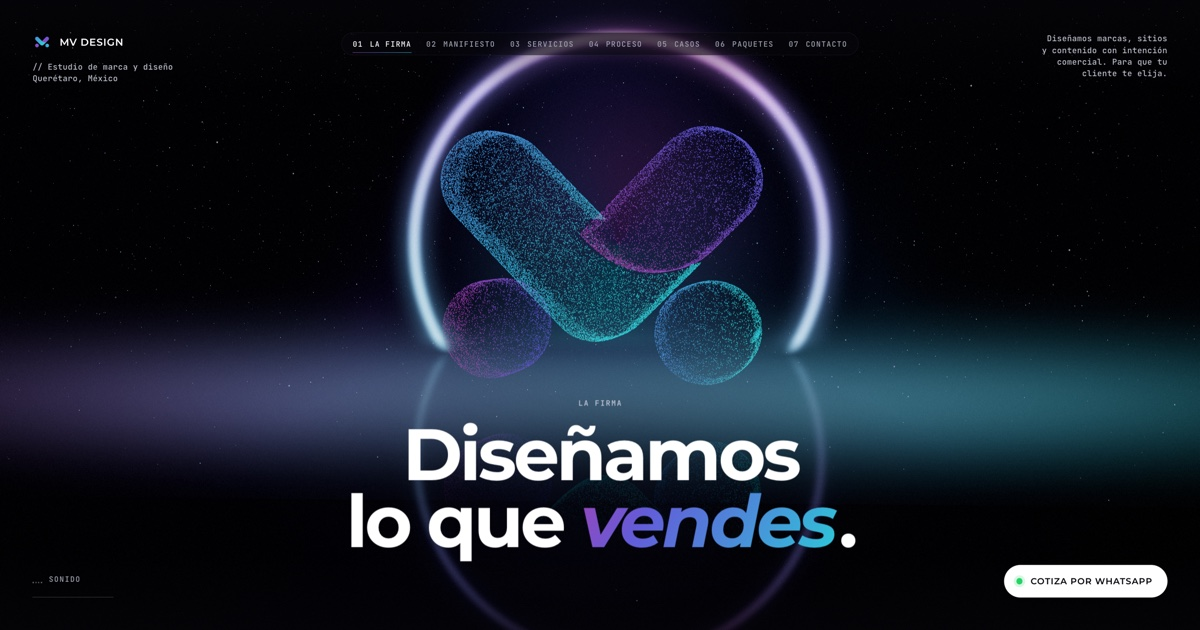
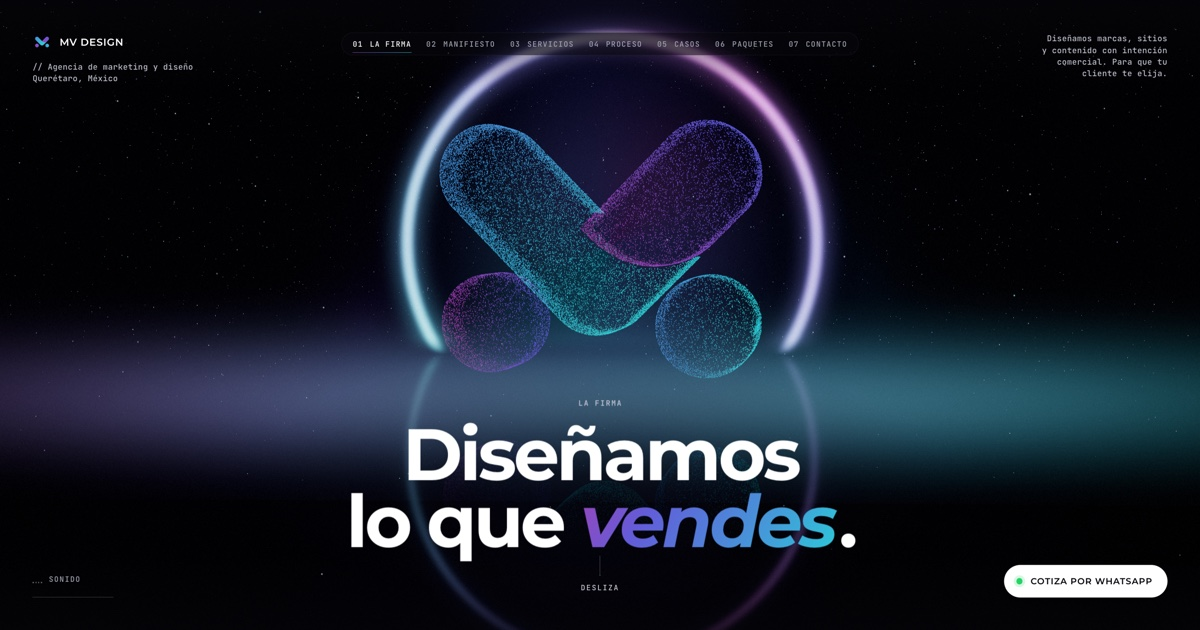
Revisión de la migración: medición, SEO local, Contacto en pantallas bajas
- Pixel: sin PageView por cada cambio de escena (disablePushState)
- ?debug / ?qa / ?notrack sin valor ya no miden en producción
- scene_view sólo en la escena donde aterrizas; WhatsApp de casos con su nombre (caso-...)
- Etiqueta del flotante igual que la home anterior ([web · botón flotante])
- Texto visible con 'Agencia de marketing y diseño' y Querétaro; servicios como h3
- Espacio antes de <br> (texto plano sin palabras pegadas); llms.txt con enlaces
- three.js en paralelo (preconnect + modulepreload); /lab/ sin noindex
- Contacto: la cámara mide el aire y centra la M sobre el bloque; se aprieta en pantallas bajas
- Íconos de redes sin robo de toques por los legales; versión sin 3D legible
- Imagen para compartir con el texto nuevo

diff --git a/lab/lab.js b/lab/lab.js
@@ -386,6 +386,8 @@ async function buildM() {
   const size = new THREE.Vector3(), center = new THREE.Vector3();
   box.getSize(size); box.getCenter(center);
   const s = 2.7 / size.x;                           // ~2.7 m de ancho, centrada en su pivote
+  const mHalfWas = M_HALF;
+  M_HALF = size.y * s / 2;                          // (contacto: cuánto aire necesita la M sobre el texto)
   const holder = new THREE.Object3D();
   holder.scale.set(s, -s, s);                       // el SVG tiene la Y hacia abajo
   holder.position.set(-center.x * s, center.y * s, -center.z * s);
@@ -400,7 +402,7 @@ async function buildM() {
   particles.reflection.renderOrder = -2;            // debajo del piso: el piso la vela
   scene.add(particles.points);
   scene.add(particles.reflection);                  // la reflexión se voltea en su propio shader
-  anchorUI();
+  if (Math.abs(M_HALF - mHalfWas) > 0.01) buildPath(); else anchorUI();
   geos.forEach((g) => g.dispose());
   try {   // precompila todo (fichas incluidas) contra el búfer del composer
     cards.forEach((m) => { m.visible = true; });
@@ -445,6 +447,7 @@ const SPI = { R: 3, drop: 2, cardW: 2.3, yTop: AXIS_Y, yM: AXIS_Y - 12.5, camD: 
 // giro de la espiral: llega girando desde servicios, cada estación gira 60° y sigue girando hacia el cierre
 const spinAt = (q) => (q < Q0 ? (Q0 - q) * 1.4 : -(q - Q0) * SPI.stepA);
 const pad2 = (n) => String(n).padStart(2, "0");
+const slugify = (t) => t.toLowerCase().normalize("NFD").replace(/[\u0300-\u036f]/g, "").replace(/[^a-z0-9]+/g, "-").replace(/^-|-$/g, "");
 
 const cardGeo = new THREE.PlaneGeometry(1, 1);
 const cards = RUBROS.map((r, i) => {
@@ -834,7 +837,7 @@ function openDetail(k, tile) {
   const ctas = mk("div", "det__ctas");
   const wa = mk("a", "pill pill--light", "Quiero algo así →");
   wa.href = WA_URL + encodeURIComponent(`Hola MV Design, vi el caso de ${pr.name} y quiero cotizar algo así. [web · caso]`);
-  wa.dataset.cta = "caso";                              // (medición: WhatsApp = Lead con su ubicación)
+  wa.dataset.cta = "caso-" + slugify(pr.name);          // (medición: WhatsApp = Lead con su ubicación: qué caso convierte)
   wa.target = "_blank"; wa.rel = "noopener";
   ctas.append(wa);
   if (pr.url) { const a = mk("a", "pill pill--ghost", "Ver sitio ↗"); a.href = pr.url; a.target = "_blank"; a.rel = "noopener"; ctas.append(a); }
@@ -982,7 +985,7 @@ const TEXT_PORT = [{ d: 14, oy: 0.17 }, { oy: 0 }, { oy: 0 }, { d: 12, oy: 0 }, 
 const RING_FILL = { land: 0.84, port: 0.96 };
 const mLook = new THREE.Matrix4(), qTmp = new THREE.Quaternion();
 // escala de la M y ventana lejana de los anillos: dependen del encuadre (buildPath)
-let mScale = M_S, FAR_SUN = 20, FAR_TUN = 20, mouseRef = 12;
+let mScale = M_S, FAR_SUN = 20, FAR_TUN = 20, mouseRef = 12, M_HALF = 1.05;   // (M_HALF: media altura de la M a escala 1)
 let procTight = false;                                   // celular: el proceso no cabe junto al WhatsApp flotante
 function buildPath() {
   const E = END_Z;
@@ -1057,10 +1060,6 @@ function buildPath() {
   KEYS.pos.push(V(0, yK, PK_Z + T[SC.pk].d)); KEYS.look.push(V(0, yK, PK_Z)); FOCUS.push(T[SC.pk].d);
   if (portrait) { KEYS.pos.push(V(0, yM + 0.6, E + 20.5)); KEYS.look.push(V(0, yM - 1.55 - (H < 760 ? 1.2 : 0.3), E)); FOCUS.push(20.5); }   // (la M sube: el pie de contacto no la toca)
   else { KEYS.pos.push(V(0, yM + 0.4, E + 16.5)); KEYS.look.push(V(0, yM - 0.95, E)); FOCUS.push(16.5); }
-  posCurve = new THREE.CatmullRomCurve3(KEYS.pos, false, "centripetal");
-  lookCurve = new THREE.CatmullRomCurve3(KEYS.look, false, "centripetal");
-  posA = new THREE.CatmullRomCurve3([...KEYS.pos.slice(0, 3), KEYS.pos[Q0]], false, "centripetal");
-  lookA = new THREE.CatmullRomCurve3([...KEYS.look.slice(0, 3), KEYS.look[Q0]], false, "centripetal");
   // cada texto queda de frente a la cámara de su escena, a 1:1 (nítido) cuando llegas.
   // Manifiesto y servicios viven en el plano de su anillo y su tipografía se mide con él (--ring):
   // el texto queda dentro del círculo con cualquier zoom del navegador y en cualquier pantalla.
@@ -1069,7 +1068,9 @@ function buildPath() {
   sections[SC.proc].classList.toggle("is-compact", portrait);
   sections[SC.pk].classList.toggle("is-compact", portrait || H < 620);
   procTight = false;
-  labels.forEach((o, i) => {
+  const elC = sections[LAST], root = document.documentElement;
+  elC.classList.remove("is-tight", "is-bare"); root.classList.remove("contact-bare");
+  const place = (o, i) => {
     const ring = RING_AT[i];
     let ringD = 0;
     const d = ring ? ring[1] : T[i].d, oy = T[i].oy;
@@ -1102,7 +1103,35 @@ function buildPath() {
     o.quaternion.copy(qTmp);
     o.scale.setScalar(s * fit);
     o.userData.d = d;
-  });
+    return cy - half;                                // (arriba del bloque, en px)
+  };
+  labels.forEach(place);
+  // contacto: la M del cierre vive en el aire entre el HUD y el bloque de texto (que va abajo). Si no le alcanza,
+  // el bloque se aprieta (y en pantallas muy bajas suelta el kicker y la nota), la cámara se aleja lo justo
+  // y se inclina para centrarla en ese hueco; donde ya cabe, el encuadre no cambia
+  const kC = QLAST, GAP = 18, mH = M_HALF * mScale, D0 = KEYS.pos[kC].z - E;
+  const shot = (ly, y) => { probe.position.copy(KEYS.pos[kC]); probe.lookAt(0, ly, E); probe.updateMatrixWorld(); pv.set(0, y, E).project(probe); return (1 - pv.y) / 2 * H; };
+  const mPx = (D) => (mH * H) / (D * tanH);          // alto de la M en pantalla a distancia D
+  let minTop = (narrow ? 112 : 96) + SAFE_T, topC = place(labels[LAST], LAST);
+  if (topC - GAP - minTop < mPx(D0)) { elC.classList.add("is-tight"); topC = place(labels[LAST], LAST); }
+  if (topC - GAP - minTop < mPx(D0) * 0.8) {
+    elC.classList.add("is-bare"); root.classList.add("contact-bare");
+    minTop = (narrow ? 72 : 92) + SAFE_T; topC = place(labels[LAST], LAST);
+  }
+  const band = topC - GAP - minTop, ly0 = KEYS.look[kC].y;
+  if (band > 70 && (shot(ly0, yM - mH) > topC - GAP || shot(ly0, yM + mH) < minTop)) {
+    const D = clamp(D0 * mPx(D0) / (band * 0.94), D0, D0 * 1.6);
+    KEYS.pos[kC].z = E + D; FOCUS[kC] = D;
+    const want = minTop + band / 2;                  // (más arriba la mirada, más abajo la M en pantalla)
+    let lo = yM - 10, hi = yM + 10;
+    for (let n = 0; n < 32; n++) { const mid = (lo + hi) / 2; if (shot(mid, yM) < want) lo = mid; else hi = mid; }
+    KEYS.look[kC].y = (lo + hi) / 2;
+    place(labels[LAST], LAST);                       // el texto sigue a su cámara: mismo lugar en pantalla
+  }
+  posCurve = new THREE.CatmullRomCurve3(KEYS.pos, false, "centripetal");
+  lookCurve = new THREE.CatmullRomCurve3(KEYS.look, false, "centripetal");
+  posA = new THREE.CatmullRomCurve3([...KEYS.pos.slice(0, 3), KEYS.pos[Q0]], false, "centripetal");
+  lookA = new THREE.CatmullRomCurve3([...KEYS.look.slice(0, 3), KEYS.look[Q0]], false, "centripetal");
   anchorUI();
 }
 
@@ -1429,13 +1458,13 @@ mailBtn?.addEventListener("click", () => {
 });
 const progEl = document.querySelector("[data-prog]");
 const NOTES = [
-  "Diseñamos marcas, sitios<br>y contenido con intención<br>comercial. Para que tu<br>cliente te elija.",
-  "Antes del diseño,<br>la decisión.",
-  "Estrategia, diseño, contenido<br>y pauta en un solo equipo.",
-  "Primero entendemos tu negocio.<br>Después diseñamos.",
-  "Trabajo real de branding,<br>diseño web y contenido.<br>Desde Querétaro para todo México.",
-  "El mensaje de WhatsApp<br>ya lleva el paquete elegido.",
-  "Respondemos el mismo día<br>por WhatsApp."
+  "Diseñamos marcas, sitios <br>y contenido con intención <br>comercial. Para que tu <br>cliente te elija.",
+  "Antes del diseño, <br>la decisión.",
+  "Estrategia, diseño, contenido <br>y pauta en un solo equipo.",
+  "Primero entendemos tu negocio. <br>Después diseñamos.",
+  "Trabajo real de branding, <br>diseño web y contenido. <br>Desde Querétaro para todo México.",
+  "El mensaje de WhatsApp <br>ya lleva el paquete elegido.",
+  "Respondemos el mismo día <br>por WhatsApp."
 ];
 let active = -1;
 const sceneSeen = new Set();
@@ -1525,8 +1554,8 @@ function setActive(a) {
   if (active === 0 && a > 0) { document.documentElement.classList.add("hint-done"); try { sessionStorage.setItem("mv-hint", "1"); } catch (e) {} }
   active = a;
   document.body.dataset.scene = SLUGS[a];
-  // medición: qué escenas se ven (una vez por visita; gtag sólo envía en el dominio real)
-  if (!sceneSeen.has(a) && typeof window.gtag === "function") { sceneSeen.add(a); window.gtag("event", "scene_view", { scene: SLUGS[a] }); }
+  // medición: qué escenas se ven (una vez por visita, sólo donde aterrizas: no las que la cámara cruza; gtag sólo envía en el dominio real)
+  if (!sceneSeen.has(a) && a === Math.round(sceneP(to)) && typeof window.gtag === "function") { sceneSeen.add(a); window.gtag("event", "scene_view", { scene: SLUGS[a] }); }
   waSync();
   if (a !== SC.casos && rp.open >= 0) closeRubro(true, "nav");
   if (a !== SC.pk && pk.open >= 0) closePk("nav");
@@ -1534,7 +1563,7 @@ function setActive(a) {
   if (idxNum) idxNum.textContent = pad2(a + 1);
   if (idxName) idxName.textContent = NAMES[a];
   if (noteEl) noteEl.innerHTML = NOTES[a];
-  if (noteM) noteM.textContent = NOTES[a].replace(/<br>/g, " ");
+  if (noteM) noteM.textContent = NOTES[a].replace(/ ?<br>/g, " ");
   snd.scene(a);                                          // la armonía se desliza al acorde de la escena
 }
 

diff --git a/index.html b/index.html
@@ -46,7 +46,7 @@
 
   <link rel="preload" href="assets/fonts/montserrat-latin.woff2" as="font" type="font/woff2" crossorigin />
   <link rel="preload" href="assets/fonts/jetbrains-mono-latin.woff2" as="font" type="font/woff2" crossorigin />
-  <link rel="stylesheet" href="lab/lab.css?v=36" />
+  <link rel="stylesheet" href="lab/lab.css?v=37" />
   <noscript><style>.curtain { display: none; }</style></noscript>
   <script type="importmap">
   {
@@ -56,6 +56,21 @@
     }
   }
   </script>
+  <!-- three.js y sus módulos en paralelo desde el inicio (sin esto llegan en cascada de 3–4 niveles y el telón tarda) -->
+  <link rel="preconnect" href="https://cdn.jsdelivr.net" crossorigin />
+  <link rel="modulepreload" href="https://cdn.jsdelivr.net/npm/three@0.170.0/build/three.module.js" />
+  <link rel="modulepreload" href="https://cdn.jsdelivr.net/npm/three@0.170.0/examples/jsm/renderers/CSS3DRenderer.js" />
+  <link rel="modulepreload" href="https://cdn.jsdelivr.net/npm/three@0.170.0/examples/jsm/loaders/SVGLoader.js" />
+  <link rel="modulepreload" href="https://cdn.jsdelivr.net/npm/three@0.170.0/examples/jsm/postprocessing/EffectComposer.js" />
+  <link rel="modulepreload" href="https://cdn.jsdelivr.net/npm/three@0.170.0/examples/jsm/postprocessing/RenderPass.js" />
+  <link rel="modulepreload" href="https://cdn.jsdelivr.net/npm/three@0.170.0/examples/jsm/postprocessing/UnrealBloomPass.js" />
+  <link rel="modulepreload" href="https://cdn.jsdelivr.net/npm/three@0.170.0/examples/jsm/postprocessing/ShaderPass.js" />
+  <link rel="modulepreload" href="https://cdn.jsdelivr.net/npm/three@0.170.0/examples/jsm/postprocessing/Pass.js" />
+  <link rel="modulepreload" href="https://cdn.jsdelivr.net/npm/three@0.170.0/examples/jsm/postprocessing/MaskPass.js" />
+  <link rel="modulepreload" href="https://cdn.jsdelivr.net/npm/three@0.170.0/examples/jsm/shaders/CopyShader.js" />
+  <link rel="modulepreload" href="https://cdn.jsdelivr.net/npm/three@0.170.0/examples/jsm/shaders/LuminosityHighPassShader.js" />
+  <link rel="modulepreload" href="https://cdn.jsdelivr.net/npm/three@0.170.0/examples/jsm/misc/GPUComputationRenderer.js" />
+  <link rel="modulepreload" href="https://cdn.jsdelivr.net/npm/three@0.170.0/examples/jsm/math/MeshSurfaceSampler.js" />
 
   <script type="application/ld+json">
   {
@@ -106,9 +121,9 @@
   }
   </script>
 
-  <!-- Analítica solo en producción real: nunca en pruebas (?qa=, ?debug=, ?notrack=) ni
+  <!-- Analítica solo en producción real: nunca en pruebas (?qa, ?debug, ?notrack) ni
        en previews, para no ensuciar los datos con los que Meta optimiza los anuncios -->
-  <script>window.MV_TRACK = location.hostname === "www.mvdesign.mx" && !/[?&](qa|debug|notrack)=/.test(location.search);</script>
+  <script>window.MV_TRACK = location.hostname === "www.mvdesign.mx" && !/[?&](qa|debug|notrack)(=|&|$)/.test(location.search);</script>
 
   <!-- Google tag (gtag.js) · GA4 -->
   <script async src="https://www.googletagmanager.com/gtag/js?id=G-DTBRCV9C94"></script>
@@ -130,7 +145,8 @@
   t.src=v;s=b.getElementsByTagName(e)[0];
   s.parentNode.insertBefore(t,s)}(window, document,'script',
   'https://connect.facebook.net/en_US/fbevents.js');
-  if (window.MV_TRACK) { fbq('init', '1494974869057200'); fbq('track', 'PageView'); }
+  // disablePushState: la experiencia cambia el #escena con history; sin esto el Pixel manda un PageView por escena
+  if (window.MV_TRACK) { fbq.disablePushState = true; fbq('init', '1494974869057200'); fbq('track', 'PageView'); }
   </script>
   <noscript><img height="1" width="1" style="display:none"
   src="https://www.facebook.com/tr?id=1494974869057200&ev=PageView&noscript=1"
@@ -146,12 +162,12 @@
       <img src="assets/logos/mv-design-mark-color.svg" alt="" width="28" height="28" />
       <span>MV DESIGN</span>
     </a>
-    <p class="mono hud-sub">// Estudio de marca y diseño<br />Querétaro, México</p>
+    <p class="mono hud-sub">// Agencia de marketing y diseño <br />Querétaro, México</p>
     <p class="mono hud-note-m" data-note-m></p>
   </header>
 
   <aside class="hud hud--tr">
-    <p class="mono manifesto" data-note>Diseñamos marcas, sitios<br />y contenido con intención<br />comercial. Para que tu<br />cliente te elija.</p>
+    <p class="mono manifesto" data-note>Diseñamos marcas, sitios <br />y contenido con intención <br />comercial. Para que tu <br />cliente te elija.</p>
   </aside>
 
   <nav class="hud idx" aria-label="Escenas" data-idx>
@@ -176,7 +192,7 @@
   <main class="stage">
     <section class="scene scene--hero" data-scene="inicio" aria-label="La firma">
       <p class="kicker mono">La firma</p>
-      <h1 class="title" tabindex="-1">Diseñamos<br />lo que <em class="grad">vendes</em>.</h1>
+      <h1 class="title" tabindex="-1">Diseñamos <br />lo que <em class="grad">vendes</em>.</h1>
     </section>
 
     <section class="scene scene--ring" data-scene="manifiesto" aria-label="Manifiesto">
@@ -193,12 +209,12 @@
       <p class="kicker mono">Servicios</p>
       <h2 class="title title--2" tabindex="-1">Toda la cadena creativa, <em class="grad">sin intermediarios</em>.</h2>
       <ol class="svc-grid">
-        <li><span>01</span> <b>Branding estratégico</b> <i>Naming · Identidad · Brandbook</i></li>
-        <li><span>02</span> <b>Redes sociales</b> <i>Contenido · Comunidad · Pauta</i></li>
-        <li><span>03</span> <b>Web, apps y automatizaciones</b> <i>Editorial · E&#8209;commerce · 3D inmersiva</i></li>
-        <li><span>04</span> <b>Producción audiovisual</b> <i>Foto · Video · Campañas</i></li>
-        <li><span>05</span> <b>Gráfica y editorial</b> <i>Catálogos · Papelería · Señalética</i></li>
-        <li><span>06</span> <b>Medios y performance</b> <i>Google Ads · Meta Ads · SEO</i></li>
+        <li><span>01</span> <h3 class="svc__n">Branding estratégico</h3> <i>Naming · Identidad · Brandbook</i></li>
+        <li><span>02</span> <h3 class="svc__n">Redes sociales</h3> <i>Contenido · Comunidad · Pauta</i></li>
+        <li><span>03</span> <h3 class="svc__n">Web, apps y automatizaciones</h3> <i>Diseño web · E&#8209;commerce · 3D inmersiva</i></li>
+        <li><span>04</span> <h3 class="svc__n">Producción audiovisual</h3> <i>Foto · Video · Campañas</i></li>
+        <li><span>05</span> <h3 class="svc__n">Gráfica y editorial</h3> <i>Catálogos · Papelería · Señalética</i></li>
+        <li><span>06</span> <h3 class="svc__n">Marketing y performance</h3> <i>Google Ads · Meta Ads · SEO</i></li>
       </ol>
     </section>
 
@@ -336,7 +352,7 @@
     </section>
 
     <section class="scene scene--contact" data-scene="contacto" aria-label="Contacto">
-      <p class="kicker mono">Contacto</p>
+      <p class="kicker mono">Contacto · Querétaro, México</p>
       <h2 class="title title--2" tabindex="-1">Hagamos que tu marca <em class="grad">venda</em>.</h2>
       <div class="ctas">
         <a class="pill pill--light pill--two" href="https://wa.me/5214427146255?text=Hola%20Fernanda%2C%20quiero%20cotizar%20un%20proyecto%20con%20MV%20Design.%20%5Bweb%20%C2%B7%20contacto%5D" target="_blank" rel="noopener" data-cta="contacto-fer">
@@ -373,7 +389,7 @@
     <div class="progress" aria-hidden="true"><span data-prog></span></div>
   </footer>
 
-  <a class="wa" href="https://wa.me/5214427146255?text=Hola%20MV%20Design%2C%20quiero%20cotizar%20un%20proyecto.%20%5Bweb%20%C2%B7%20flotante%5D" target="_blank" rel="noopener" data-cta="flotante">
+  <a class="wa" href="https://wa.me/5214427146255?text=Hola%20MV%20Design%2C%20quiero%20cotizar%20un%20proyecto.%20%5Bweb%20%C2%B7%20bot%C3%B3n%20flotante%5D" target="_blank" rel="noopener" data-cta="flotante">
     <span class="wa__dot" aria-hidden="true"></span>Cotiza por WhatsApp
   </a>
 
@@ -397,7 +413,7 @@
       setTimeout(function () { if (!document.documentElement.classList.contains("is-3d")) off(); }, 4000);
     })();
   </script>
-  <script type="module" src="lab/lab.js?v=91"></script>
+  <script type="module" src="lab/lab.js?v=92"></script>
   <!-- Conversiones: WhatsApp = Lead (principal) · correo = Contact. Envia a Meta Pixel Y a GA4 -->
   <script>
   (function () {

diff --git a/lab/lab.css b/lab/lab.css
@@ -87,7 +87,7 @@ html.is-3d .scene--hero .title { font-size: max(clamp(40px, 6.4vw, 108px), min(c
 .svc-grid { display: grid; grid-template-columns: repeat(3, minmax(0, 1fr)); gap: 0 30px; margin: 34px auto 0; max-width: 980px; text-align: left; }
 .svc-grid li { display: grid; grid-template-columns: 30px 1fr; padding: 13px 0 15px; border-top: 1px solid var(--line); }
 .svc-grid span { font-size: 11px; color: var(--fg-3); padding-top: 3px; }
-.svc-grid b { font: 600 16px/1.25 "Montserrat", sans-serif; color: #fff; letter-spacing: -.01em; }
+.svc-grid .svc__n { font: 600 16px/1.25 "Montserrat", sans-serif; color: #fff; letter-spacing: -.01em; }
 .svc-grid i { grid-column: 2; font-style: normal; font-size: 11px; color: var(--fg-3); margin-top: 4px; }
 
 /* ---------- manifiesto y servicios: dentro de su anillo ----------
@@ -108,7 +108,7 @@ html.is-3d .scene--ring[data-scene="servicios"] .title--2 { font-size: calc(var(
 html.is-3d .scene--ring .svc-grid { max-width: none; grid-template-columns: repeat(3, minmax(0, 1fr)); gap: 0 calc(var(--u) * 2.4); margin-top: calc(var(--u) * 3); }
 html.is-3d .scene--ring .svc-grid li { grid-template-columns: calc(var(--u) * 2.8) 1fr; padding: calc(var(--u) * 1.2) 0 calc(var(--u) * 1.3); }
 html.is-3d .scene--ring .svc-grid span { font-size: calc(var(--u) * 1.7); padding-top: calc(var(--u) * .3); }
-html.is-3d .scene--ring .svc-grid b { font-size: calc(var(--u) * 2.1); }
+html.is-3d .scene--ring .svc-grid .svc__n { font-size: calc(var(--u) * 2.1); }
 html.is-3d .scene--ring .svc-grid i { display: block; font-size: calc(var(--u) * 1.7); margin-top: calc(var(--u) * .5); }
 /* anillo chico (vertical o pantalla baja): sólo lo esencial cabe en el círculo; el resto queda sr-only para lectores de pantalla */
 html.is-3d .scene--ring.is-compact { width: calc(var(--u) * 78); }
@@ -123,7 +123,7 @@ html.is-3d .scene--ring.is-compact .svc-grid li { display: block; padding: 0; bo
 html.is-3d .scene--ring.is-compact .trio .desc, html.is-3d .scene--ring.is-compact .svc-grid span, html.is-3d .scene--ring.is-compact .svc-grid i {
   position: absolute; width: 1px; height: 1px; margin: -1px; padding: 0; overflow: hidden; clip: rect(0 0 0 0); white-space: nowrap; border: 0;
 }
-html.is-3d .scene--ring.is-compact .svc-grid b { font-size: calc(var(--u) * 3.5); line-height: 1.55; white-space: nowrap; }
+html.is-3d .scene--ring.is-compact .svc-grid .svc__n { font-size: calc(var(--u) * 3.5); line-height: 1.55; white-space: nowrap; }
 
 /* ---------- casos por rubro ----------
    Sin 3D: la lista de rubros y proyectos se lee como página. Con 3D: los rubros son una espiral (WebGL),
@@ -368,7 +368,7 @@ html.is-short body[data-scene="proceso"] .hud-note-m, html.is-short body[data-sc
 .restart { position: relative; margin-top: 22px; color: #9DA1B0; letter-spacing: .08em; text-transform: uppercase; font-size: 11px; }
 .restart:hover { color: #fff; }
 /* pie de contacto: volver al inicio + redes (íconos) en un renglón; enlaces legales debajo */
-.contact-foot { display: flex; align-items: center; justify-content: center; gap: 20px; margin-top: 22px; }
+.contact-foot { position: relative; z-index: 1; display: flex; align-items: center; justify-content: center; gap: 20px; margin-top: 22px; }   /* (sobre el área táctil de los legales) */
 .contact-foot .restart { margin-top: 0; }
 .social { display: inline-flex; gap: 10px; }
 .social__a {
@@ -447,6 +447,13 @@ html:not(.is-3d) .stage { position: relative; z-index: 4; display: grid; gap: 16
 html:not(.is-3d) .scene { margin: 0 auto; }
 html:not(.is-3d) .scene::before { display: none; }
 html:not(.is-3d) .idx, html:not(.is-3d) .restart { display: none; }
+/* el HUD de arriba se va con el scroll (fijo, los títulos le pasaban encima) */
+html:not(.is-3d) body { position: relative; }
+html:not(.is-3d) :is(.hud--tl, .hud--tr) { position: absolute; }
+/* legales: renglón que puede partirse y áreas táctiles de 44 px */
+html:not(.is-3d) .legal { font-size: 11px; line-height: 1.4; }
+html:not(.is-3d) .legal a { display: inline-block; padding: 14px 4px; }
+html:not(.is-3d) .legal a::before { display: none; }
 html:not(.is-3d) .proc { grid-template-columns: 1fr; gap: 16px; max-width: 560px; text-align: left; }
 html:not(.is-3d) .proc__step { display: grid; grid-template-columns: 40px 1fr; gap: 14px; align-items: start; }
 html:not(.is-3d) .proc__n { border: 1px solid rgba(255,255,255,.3); color: #fff; }
@@ -504,7 +511,7 @@ html:not(.is-3d) .pk__more, html:not(.is-3d) .psheet, html:not(.is-3d) .psheet-v
   .trio strong { font-size: 14px; margin-bottom: 3px; }
   .svc-grid { grid-template-columns: 1fr; margin-top: 18px; }
   .svc-grid li { padding: 8px 0; }
-  .svc-grid b { font-size: 14px; }
+  .svc-grid .svc__n { font-size: 14px; }
   .svc-grid i { display: none; }
   html.is-3d .scene--cases {
     height: calc(100vh - 140px - env(safe-area-inset-top, 0px) - env(safe-area-inset-bottom, 0px));
@@ -522,8 +529,18 @@ html:not(.is-3d) .pk__more, html:not(.is-3d) .psheet, html:not(.is-3d) .psheet-v
   .contact-foot { margin-top: 10px; gap: 16px; }
   .scene--contact .ctas { gap: 8px; margin-top: 22px; }
   .scene--contact .pill--two { min-height: 52px; }
-  .legal { margin-top: 8px; font-size: 9.5px; letter-spacing: 0; white-space: nowrap; }   /* un renglón: no empuja el bloque sobre la M */
+  html.is-3d .legal { margin-top: 12px; font-size: 9.5px; letter-spacing: 0; white-space: nowrap; }   /* un renglón: no empuja el bloque sobre la M */
+  html.is-3d .legal a::before { inset: -6px -4px; }     /* (no invade los íconos de redes de arriba) */
 }
+/* contacto en pantallas bajas: buildPath mide el aire que le queda a la M y aprieta el bloque (tight) o,
+   si aun así no alcanza, suelta el kicker y la nota del HUD (bare). Todo sigue a ≥ 44 px táctiles */
+html.is-3d .scene--contact.is-tight .kicker { margin-bottom: 10px; }
+html.is-3d .scene--contact.is-tight .ctas { gap: 6px; margin-top: 14px; }
+html.is-3d .scene--contact.is-tight .pill--two { min-height: 46px; padding-top: 7px; padding-bottom: 7px; }
+html.is-3d .scene--contact.is-tight .pill--ghost { min-height: 44px; padding-top: 12px; padding-bottom: 12px; }
+html.is-3d .scene--contact.is-tight .contact-foot { margin-top: 8px; }
+html.is-3d .scene--contact.is-bare .kicker { display: none; }
+html.contact-bare body[data-scene="contacto"] .hud-note-m { display: none; }
 @media (max-width: 380px) {
   .idx__now { display: none; }                          /* celulares angostos: número + flecha (cabe el botón de sonido) */
 }

diff --git a/eliminacion-de-datos/index.html b/eliminacion-de-datos/index.html
@@ -26,8 +26,8 @@
   <link rel="stylesheet" href="/css/base.css?v=8" />
   <link rel="stylesheet" href="/css/components.css?v=8" />
   <link rel="stylesheet" href="/css/legal.css?v=1" />
-  <!-- Analítica sólo en producción real (igual que el inicio): nunca en pruebas (?qa=, ?debug=, ?notrack=) -->
-  <script>window.MV_TRACK = location.hostname === "www.mvdesign.mx" && !/[?&](qa|debug|notrack)=/.test(location.search);</script>
+  <!-- Analítica sólo en producción real (igual que el inicio): nunca en pruebas (?qa, ?debug, ?notrack) -->
+  <script>window.MV_TRACK = location.hostname === "www.mvdesign.mx" && !/[?&](qa|debug|notrack)(=|&|$)/.test(location.search);</script>
   <script async src="https://www.googletagmanager.com/gtag/js?id=G-DTBRCV9C94"></script>
   <script>
     window.dataLayer = window.dataLayer || [];

diff --git a/privacidad/index.html b/privacidad/index.html
@@ -26,8 +26,8 @@
   <link rel="stylesheet" href="/css/base.css?v=8" />
   <link rel="stylesheet" href="/css/components.css?v=8" />
   <link rel="stylesheet" href="/css/legal.css?v=1" />
-  <!-- Analítica sólo en producción real (igual que el inicio): nunca en pruebas (?qa=, ?debug=, ?notrack=) -->
-  <script>window.MV_TRACK = location.hostname === "www.mvdesign.mx" && !/[?&](qa|debug|notrack)=/.test(location.search);</script>
+  <!-- Analítica sólo en producción real (igual que el inicio): nunca en pruebas (?qa, ?debug, ?notrack) -->
+  <script>window.MV_TRACK = location.hostname === "www.mvdesign.mx" && !/[?&](qa|debug|notrack)(=|&|$)/.test(location.search);</script>
   <script async src="https://www.googletagmanager.com/gtag/js?id=G-DTBRCV9C94"></script>
   <script>
     window.dataLayer = window.dataLayer || [];

diff --git a/terminos/index.html b/terminos/index.html
@@ -26,8 +26,8 @@
   <link rel="stylesheet" href="/css/base.css?v=8" />
   <link rel="stylesheet" href="/css/components.css?v=8" />
   <link rel="stylesheet" href="/css/legal.css?v=1" />
-  <!-- Analítica sólo en producción real (igual que el inicio): nunca en pruebas (?qa=, ?debug=, ?notrack=) -->
-  <script>window.MV_TRACK = location.hostname === "www.mvdesign.mx" && !/[?&](qa|debug|notrack)=/.test(location.search);</script>
+  <!-- Analítica sólo en producción real (igual que el inicio): nunca en pruebas (?qa, ?debug, ?notrack) -->
+  <script>window.MV_TRACK = location.hostname === "www.mvdesign.mx" && !/[?&](qa|debug|notrack)(=|&|$)/.test(location.search);</script>
   <script async src="https://www.googletagmanager.com/gtag/js?id=G-DTBRCV9C94"></script>
   <script>
     window.dataLayer = window.dataLayer || [];

diff --git a/lab/index.html b/lab/index.html
@@ -2,7 +2,6 @@
 <html lang="es-MX">
 <head>
   <meta charset="utf-8" />
-  <meta name="robots" content="noindex" />
   <link rel="canonical" href="https://www.mvdesign.mx/" />
   <title>MV Design</title>
   <!-- el lab ya es la página principal: /lab/#casos → /#casos -->
